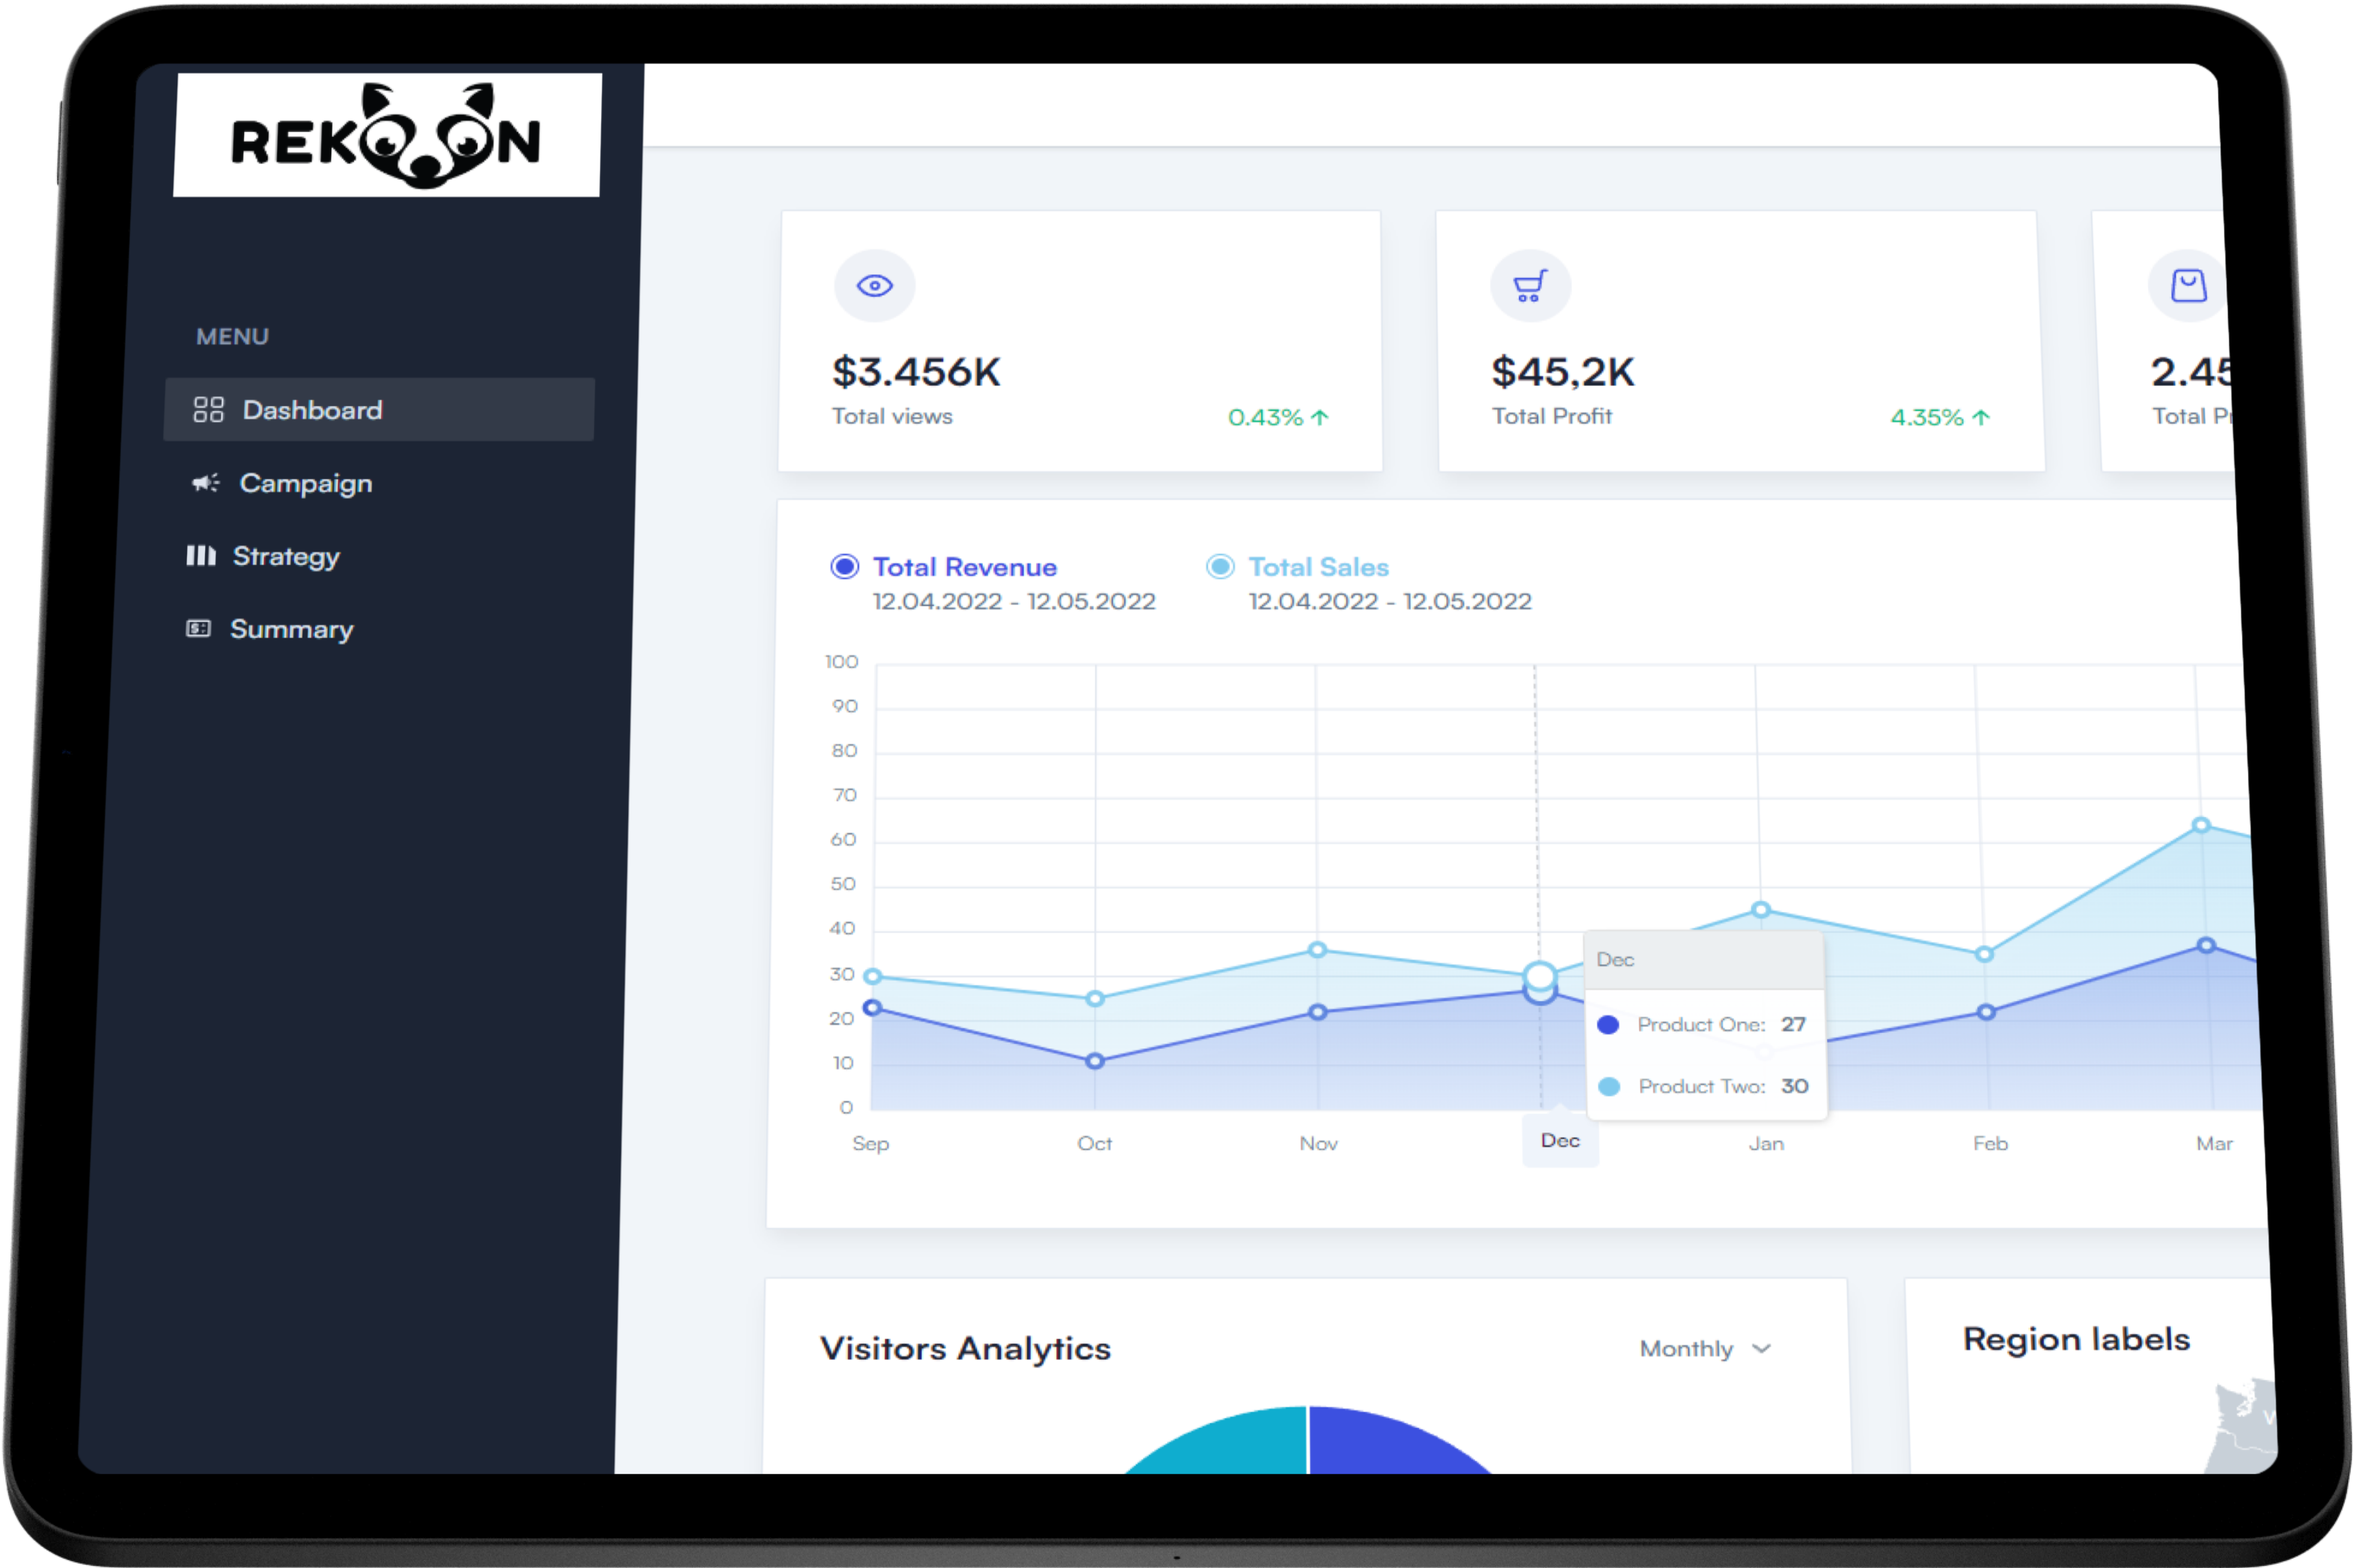
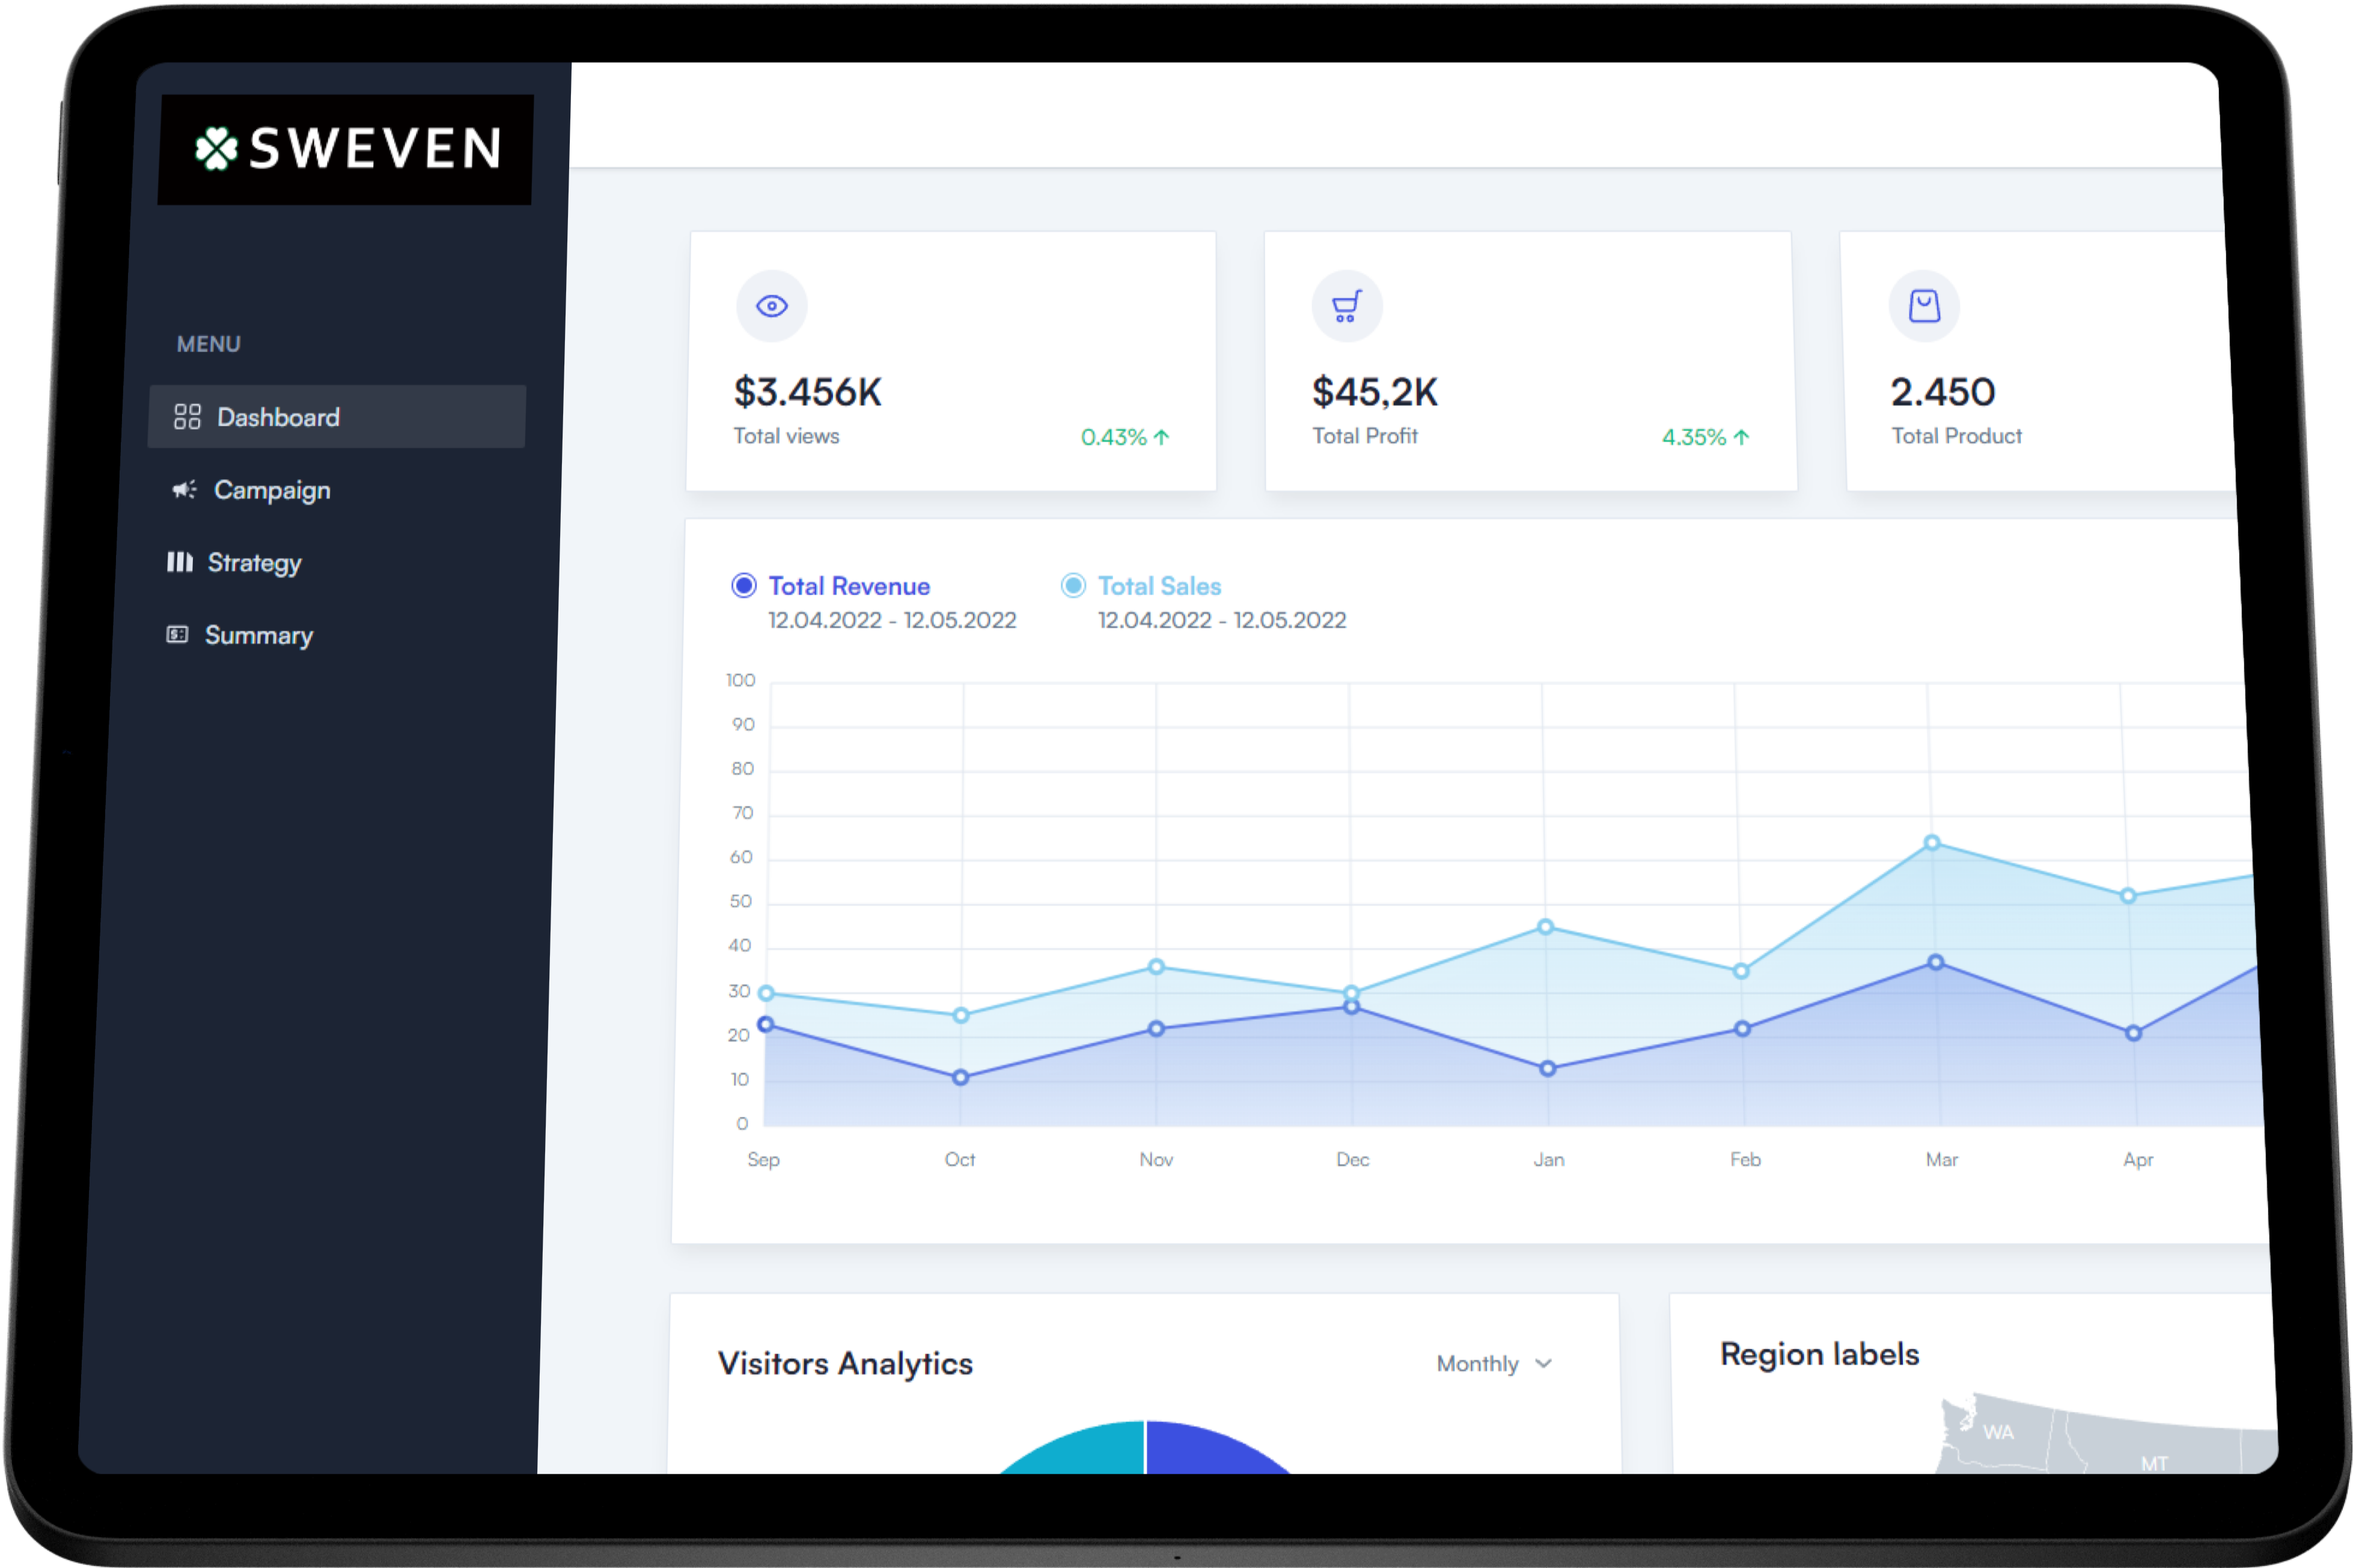
fixed home  page

diff --git a/src/sections/UpcomingFeatures.tsx b/src/sections/UpcomingFeatures.tsx
@@ -1,0 +1,85 @@
+import {
+  Card,
+  CardContent,
+  CardHeader,
+  CardTitle,
+} from '../components/ui/card';
+import { Sparkles, Zap, Shield, Smartphone, Rocket, Globe } from 'lucide-react';
+
+const features = [
+  {
+    icon: Sparkles,
+    title: 'AI-Powered Magic',
+    description:
+      'Experience the future with our AI-driven personalized recommendations.',
+    gradient: 'from-purple-500 to-pink-500',
+  },
+  {
+    icon: Zap,
+    title: 'Lightning Speed',
+    description: 'Blazing fast performance that will leave you speechless.',
+    gradient: 'from-yellow-400 to-orange-500',
+  },
+  {
+    icon: Shield,
+    title: 'Fort Knox Security',
+    description:
+      'Bank-grade encryption and authentication to keep your data safe.',
+    gradient: 'from-green-400 to-cyan-500',
+  },
+  {
+    icon: Smartphone,
+    title: 'Mobile Harmony',
+    description:
+      'Seamless integration between desktop and our upcoming mobile app.',
+    gradient: 'from-blue-400 to-indigo-500',
+  },
+  {
+    icon: Rocket,
+    title: 'Skyrocketing Features',
+    description:
+      'Constantly evolving with cutting-edge features and improvements.',
+    gradient: 'from-red-500 to-pink-500',
+  },
+  {
+    icon: Globe,
+    title: 'Global Reach',
+    description: 'Connect and collaborate with users from around the world.',
+    gradient: 'from-teal-400 to-blue-500',
+  },
+];
+
+export default function UpcomingFeatures() {
+  return (
+    <section
+      className="bg-gradient-to-b from-[#FFFFFF] to-[#D2DCFF] py-24 overflow-x-clip"
+      id="updates"
+    >
+      <div className="container px-4 md:px-6">
+        <h2 className="section-title text-3xl md:text-5xl font-bold text-center mb-12 bg-clip-text text-transparent">
+          Upcoming Features
+        </h2>
+        <div className="grid grid-cols-1 md:grid-cols-2 lg:grid-cols-3 gap-8">
+          {features.map((feature, index) => (
+            <Card
+              key={index}
+              className={`bg-gradient-to-br ${feature.gradient} border-none text-white overflow-hidden`}
+            >
+              <CardHeader className="pb-0">
+                <div className="w-12 h-12 mb-4 rounded-full bg-white bg-opacity-20 flex items-center justify-center">
+                  <feature.icon className="w-6 h-6" />
+                </div>
+                <CardTitle className="text-2xl font-bold">
+                  {feature.title}
+                </CardTitle>
+              </CardHeader>
+              <CardContent>
+                <p className="text-lg opacity-90">{feature.description}</p>
+              </CardContent>
+            </Card>
+          ))}
+        </div>
+      </div>
+    </section>
+  );
+}

diff --git a/src/sections/Hero.tsx b/src/sections/Hero.tsx
@@ -24,16 +24,18 @@ export const Hero = () => {
       <div className="container">
         <div className="md:flex items-center">
           <div className="md:w-[478px]">
-            <div className="tag text-black">Version 2.0 is here</div>
-            <h1 className="text-5xl md:text-7xl font-bold tracking-tighter bg-gradient-to-b from-black to-[#001e80] text-transparent bg-clip-text mt-6">
-              Pathway to productivity
+            <div className="tag text-black font-bold">Sweven is here</div>
+            <h1 className="text-3xl md:text-6xl font-bold tracking-tighter bg-gradient-to-b from-black to-[#001e80] text-transparent bg-clip-text mt-6">
+              Precision Ads, Proven Growth
             </h1>
-            <p className="text-xl text-[#010d3e] tracking-tight mt-6">
-              Celebrate the joy of accomplishment with an app designed to track
-              your progress, motivate your efforts, and celebrate your success.
+            <p className="text-lg text-[#010d3e] tracking-tight mt-6">
+              Sweven is an innovative AdTech company at the forefront of digital
+              advertising solutions.
             </p>
             <div className="flex gap-1 items-center mt-[30px]">
-              <button className="btn btn-primary">Get for free</button>
+              <button className="btn btn-primary">
+                <a href="/auth/sign-up">Join us now</a>
+              </button>
               <button className="btn btn-text gap-1">
                 <span>Learn more</span>
                 <ArrowRight className="h-5 w-5" />

diff --git a/src/sections/Footer.tsx b/src/sections/Footer.tsx
@@ -3,7 +3,7 @@ import logo from '../assets/logosaas.png';
 
 export const Footer = () => {
   return (
-    <footer className="bg-black text-[#bcbcbc] text-sm py-10 text-center">
+    <footer className="bg-[#1f1f1f] text-white  text-sm py-10 text-center">
       <div className="container">
         <div className="inline-flex relative before:content-[''] before:top-2 before:bottom-0 before:w-full before:blur before:bg-[linear-gradient(to_right,#f87bff,#fb92cf,#ffdd9b,#c2f0b1,,#2fd8fe)] before:absolute">
           <img src={logo} height={40} alt="SaaS logo" className="relative" />
@@ -11,8 +11,6 @@ export const Footer = () => {
         <nav className="flex flex-col md:flex-row md:justify-center gap-6 mt-6">
           <a href="#">About</a>
           <a href="#">Features</a>
-          <a href="#">Customers</a>
-          <a href="#">Pricing</a>
           <a href="#">Help</a>
           <a href="#">Careers</a>
         </nav>
@@ -22,9 +20,11 @@ export const Footer = () => {
           <Linkedin />
           <Youtube />
         </div>
+        <div className="flex justify-center gap-6 mt-6">Delhi India 110055</div>
       </div>
       <p className="mt-6">
-        &copy; 2024 Your Companny, Inc. All rights reserved.
+        &copy; 2024 Lemonade Digital Media Technology Solutions Pvt Ltd, Inc.
+        All rights reserved.
       </p>
     </footer>
   );

diff --git a/src/sections/ProductShowcase.tsx b/src/sections/ProductShowcase.tsx
@@ -1,6 +1,6 @@
 'use client';
 
-import productImage from '../assets/product-image.png';
+import productImage from '../assets/sweven.png';
 import pyramidImage from '../assets/pyramid.png';
 import tubeImage from '../assets/tube.png';
 
@@ -18,18 +18,19 @@ export const ProductShowcase = () => {
     <section
       ref={sectionRef}
       className="bg-gradient-to-b from-[#FFFFFF] to-[#D2DCFF] py-24 overflow-x-clip"
+      id="features"
     >
       <div className="container">
         <div className="section-heading">
           <div className="flex justify-center">
-            <div className="tag">Boost your productivity</div>
+            <div className="tag font-bold">Boost your advertisement</div>
           </div>
-          <h2 className="section-title mt-5">
-            A more effective way to track progress
+          <h2 className="section-title mt-5 text-5xl">
+            A More Effective Way to publish advertisement
           </h2>
           <p className="section-description mt-5">
             Effortlessly turn your ideas into a fully functional, responsive,
-            SasS website in just minutes with this template.
+            Adtech website in just minutes with our dashboard.
           </p>
         </div>
         <div className="relative">

diff --git a/src/sections/CallToAction.tsx b/src/sections/CallToAction.tsx
@@ -1,8 +1,8 @@
 'use client';
 
 // import ArrowRight from '../assets/arrow-right.svg';
-import starImage from '../assets/star.png';
-import springImage from '../assets/spring.png';
+import starImage from '../assets/iphone.png';
+import springImage from '../assets/ipadPro.png';
 
 import { motion, useScroll, useTransform } from 'framer-motion';
 import { useRef } from 'react';
@@ -41,15 +41,17 @@ export const CallToAction = () => {
           <motion.img
             src={springImage}
             alt="Spring Image"
-            width={360}
-            className="absolute -right-[331px] -top-[19px]"
+            width={600}
+            className="absolute -right-[520px] -top-[19px]"
             style={{
               translateY,
             }}
           />
         </div>
         <div className="flex gap-2 mt-10 justify-center">
-          <button className="btn btn-primary">Get for free</button>
+          <button className="btn btn-primary">
+            <a href="/auth/sign-up">Join us now</a>
+          </button>
           <button className="btn btn-text gap-1">
             <span>Learn more</span>
             <ArrowRight className="h-5 w-5" />

diff --git a/src/sections/Header.tsx b/src/sections/Header.tsx
@@ -12,9 +12,8 @@ export const Header = () => {
             <MenuIcon className="h-5 w-5 md:hidden" />
             <nav className="hidden md:flex gap-6 text-black font-bold items-center">
               <a href="#">About</a>
-              <a href="#">Features</a>
-              <a href="#">Customers</a>
-              <a href="#">Updates</a>
+              <a href="#features">Features</a>
+              <a href="#updates">Updates</a>
               <a href="#">Help</a>
               <button className="bg-black text-white px-4 py-2 rounded-lg font-medium inline-flex items-center justify-center tracking-tight">
                 <Link to={'/auth/sign-up'}>Sign Up For Free</Link>

diff --git a/src/pages/NewHome.tsx b/src/pages/NewHome.tsx
@@ -7,6 +7,7 @@ import { Pricing } from '../sections/Pricing';
 import { Testimonials } from '../sections/Testimonials';
 import { CallToAction } from '../sections/CallToAction';
 import { Footer } from '../sections/Footer';
+import UpcomingFeatures from '../sections/UpcomingFeatures';
 
 export default function NewHome() {
   return (
@@ -15,6 +16,7 @@ export default function NewHome() {
       <Hero />
       <LogoTicker />
       <ProductShowcase />
+      <UpcomingFeatures />
       {/* <Pricing /> */}
       <Testimonials />
       <CallToAction />

diff --git a/src/sections/Testimonials.tsx b/src/sections/Testimonials.tsx
@@ -126,8 +126,8 @@ export const Testimonials = () => {
     <section className="bg-white">
       <div className="container">
         <div className="section-heading">
-          <div className="flex justify-center">
-            <div className="tag">Testimonials</div>
+          <div className="flex justify-center p-4">
+            <div className="tag font-bold">Testimonials</div>
           </div>
           <h2 className="section-title mt-5">What our users say</h2>
           <p className="section-description mt-5">

diff --git a/src/components/Sidebar/index.tsx b/src/components/Sidebar/index.tsx
@@ -68,7 +68,7 @@ const Sidebar = ({ sidebarOpen, setSidebarOpen }: SidebarProps) => {
       {/* <!-- SIDEBAR HEADER --> */}
       <div className="flex items-center justify-between gap-2 px-6 py-5.5 lg:py-6.5">
         <NavLink to="/">
-          <img src={'/logo/Logo4-01.png'} alt="Logo" />
+          <img src={'/logo/sweven.png'} alt="Logo" />
         </NavLink>
 
         <button

diff --git a/index.html b/index.html
@@ -4,7 +4,7 @@
     <meta charset="UTF-8" />
     <link rel="icon" type="image/svg+xml" href="/favicon.ico" />
     <meta name="viewport" content="width=device-width, initial-scale=1.0" />
-    <title>Rekoon Ad Service</title>
+    <title>Sweven</title>
   </head>
   <body>
     <div id="root"></div>
